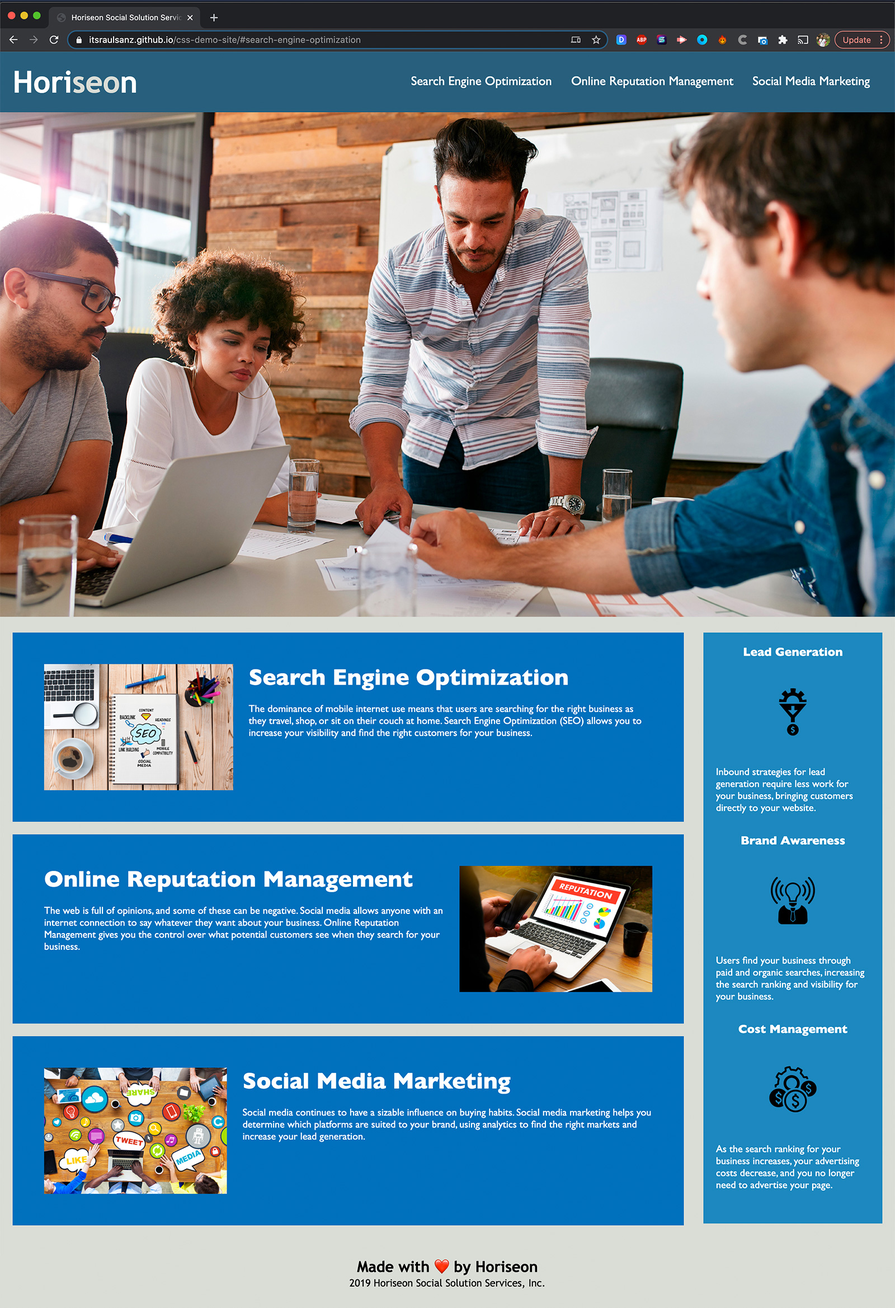
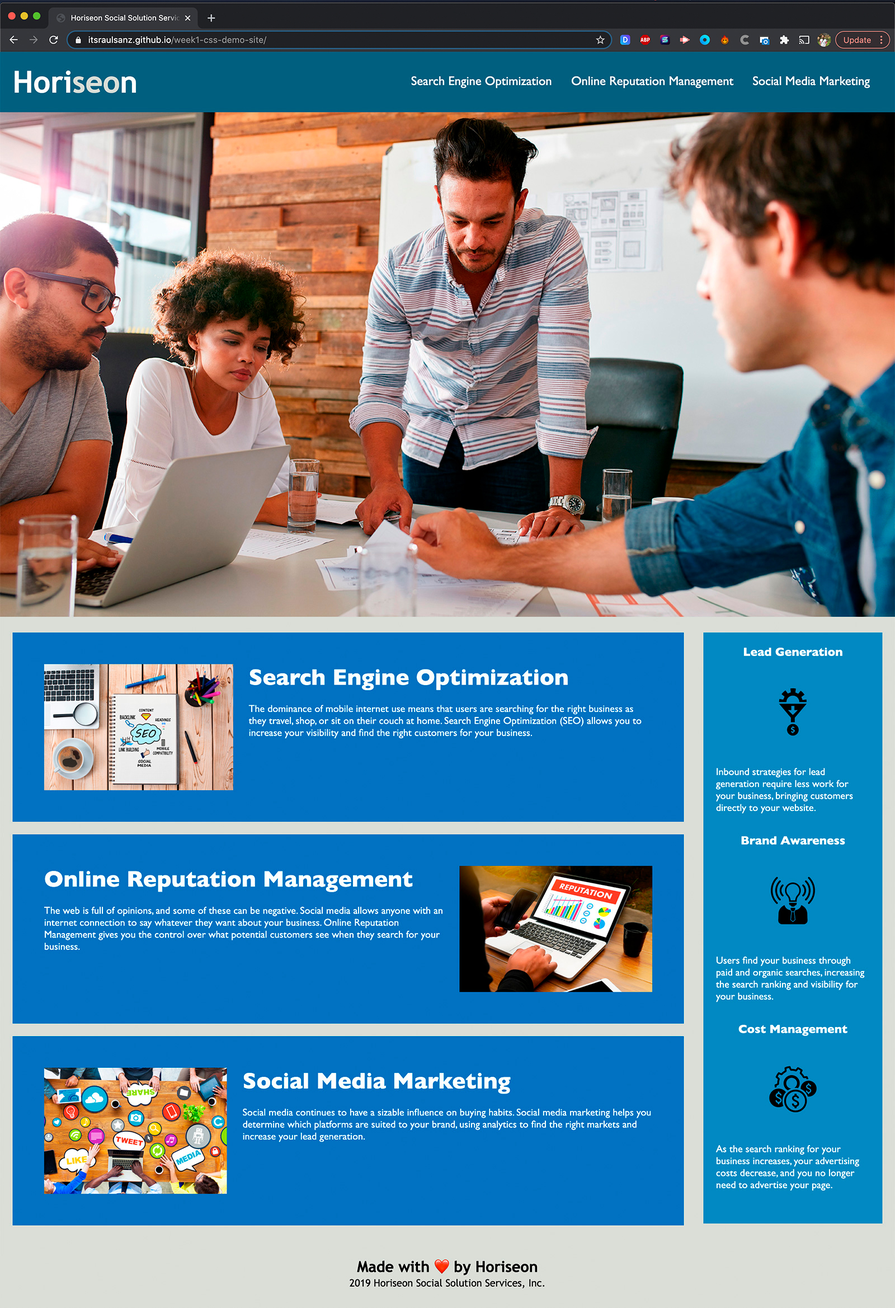
Changed the repository's URL and the screenshot image to show the new URL

diff --git a/README.md b/README.md
@@ -1,3 +1,4 @@
+# 01 HTML CSS Git: Code Refactor
 
 **HTML**
 
@@ -39,6 +40,6 @@
 
 **DEPLOYED APPLICATION**
 
-<a href="https://itsraulsanz.github.io/css-demo-site/">https://itsraulsanz.github.io/css-demo-site/</a>
+<a href="https://itsraulsanz.github.io/week1-css-demo-site/">https://itsraulsanz.github.io/week1-css-demo-site/</a>
 
 <img src="screenshot.jpg">
